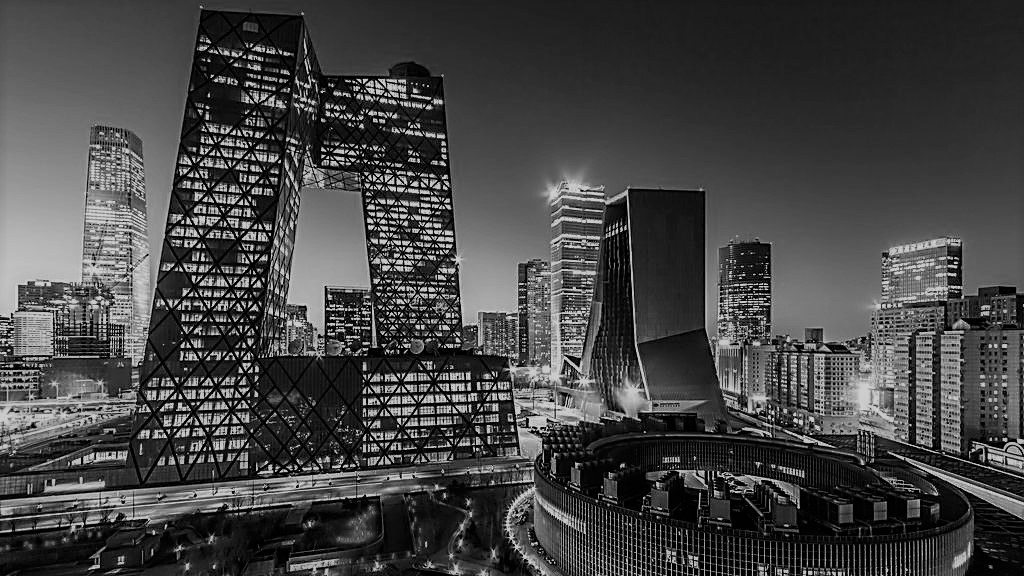
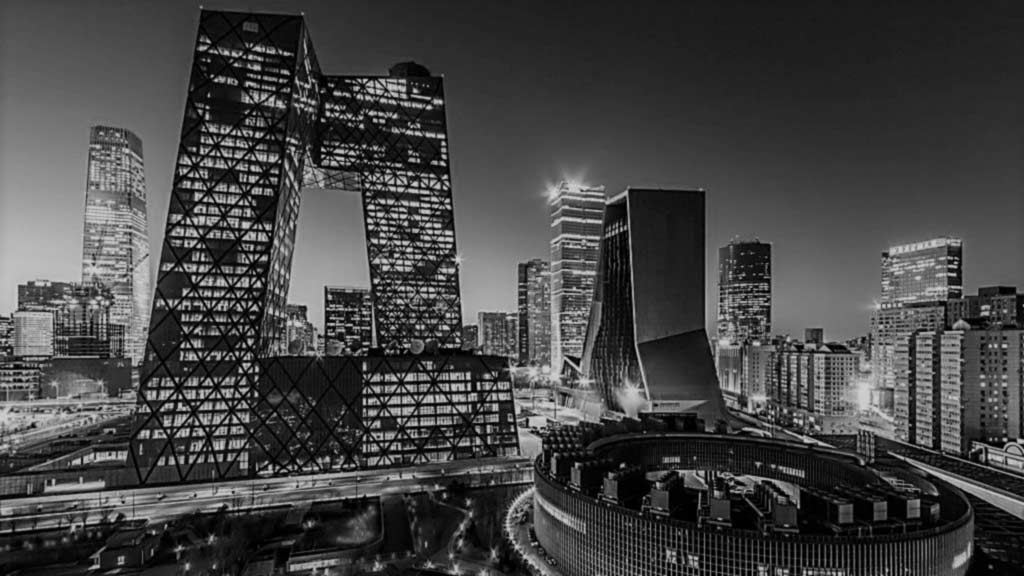
Tuesday Night Commit

diff --git a/speakers.html b/speakers.html
@@ -241,16 +241,23 @@
                                 and
                                 a NAIT grad.
 
+                                <br>
+
                                 In 2017, he won the NAIT’s first-ever Alumni Award of Excellence.
+
+                                <br> <br>
 
                                 He’s a member of Avenue Magazine’s “Top 40 under 40” – class of 2011, and consistently
                                 wins
                                 “BEST OF” awards from the readers of Avenue Magazine & the St Albert Gazette.
 
+                                <br> <br>
 
                                 When he’s not working, Josh is heavily involved in the community, volunteering his time
                                 and
                                 talents to 3 or 4 different events/organizations each week.
+
+                                <br> <br>
 
                                 He also spends several hours each week grooming the forecasters of the future. Thousands
                                 of

diff --git a/css/summits.scss b/css/summits.scss
@@ -96,7 +96,7 @@ body{
 #header{
 
     .background-container{
-        background: #000 url(../img/mountains_bg.gif) no-repeat;
+        background: #000 url(../img/mountains_bg.jpg) no-repeat;
         background-size: cover;
         width: 100%;
         height: 100vh;
@@ -246,12 +246,12 @@ body{
             background-position: center;
         }
         #edmonton2{
-            background: url(../img/summits/edmonton2.gif) no-repeat;
+            background: url(../img/summits/edmonton2.jpg) no-repeat;
             background-size: cover;
             background-position: center;
         }
         #edmonton3{
-            background: url(../img/summits/edmonton3.gif) no-repeat;
+            background: url(../img/summits/edmonton3.jpg) no-repeat;
             background-size: cover;
             background-position: center;
         }

diff --git a/css/summits.css b/css/summits.css
@@ -95,7 +95,7 @@ body h3 {
 }
 
 #header .background-container {
-  background: #000 url(../img/mountains_bg.gif) no-repeat;
+  background: #000 url(../img/mountains_bg.jpg) no-repeat;
   background-size: cover;
   width: 100%;
   height: 100vh;
@@ -248,13 +248,13 @@ body h3 {
 }
 
 #past-summits .summit-container #edmonton2 {
-  background: url(../img/summits/edmonton2.gif) no-repeat;
+  background: url(../img/summits/edmonton2.jpg) no-repeat;
   background-size: cover;
   background-position: center;
 }
 
 #past-summits .summit-container #edmonton3 {
-  background: url(../img/summits/edmonton3.gif) no-repeat;
+  background: url(../img/summits/edmonton3.jpg) no-repeat;
   background-size: cover;
   background-position: center;
 }

diff --git a/css/about.scss b/css/about.scss
@@ -137,8 +137,8 @@ strong{
 #history{
     position: relative;
     background: url(../img/edmonton_bg.jpg) no-repeat;
+    background-size: cover;
     background-attachment: fixed;
-    background-position: -1200px -1000px;
     color: white;
     .overlay{
       position: absolute;

diff --git a/css/contact.css b/css/contact.css
@@ -89,7 +89,7 @@ body * {
 }
 
 #header .background-container {
-  background: #000 url(../img/contact/team_picture2.gif) no-repeat;
+  background: #000 url(../img/contact/team_picture.jpg) no-repeat;
   background-size: cover;
   width: 100%;
   height: 100vh;

diff --git a/css/contact.scss b/css/contact.scss
@@ -92,7 +92,7 @@ body{
 #header{
 
   .background-container{
-    background: #000 url(../img/contact/team_picture2.gif) no-repeat;
+    background: #000 url(../img/contact/team_picture.jpg) no-repeat;
     
     background-size: cover;
     width: 100%;

diff --git a/css/about.css b/css/about.css
@@ -136,8 +136,8 @@ strong {
 #history {
   position: relative;
   background: url(../img/edmonton_bg.jpg) no-repeat;
+  background-size: cover;
   background-attachment: fixed;
-  background-position: -1200px -1000px;
   color: white;
 }
 
